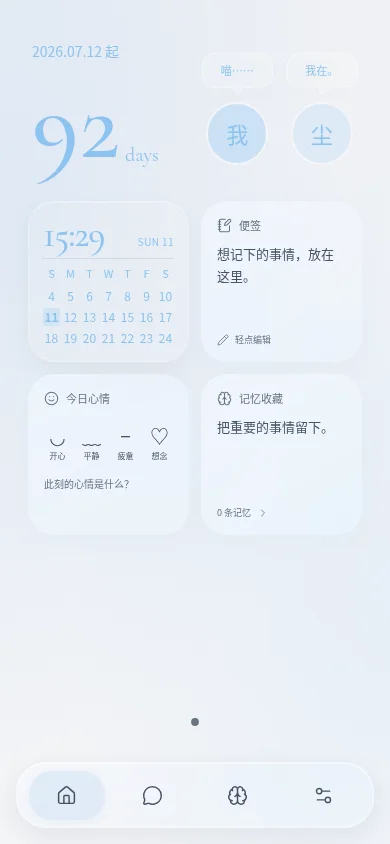
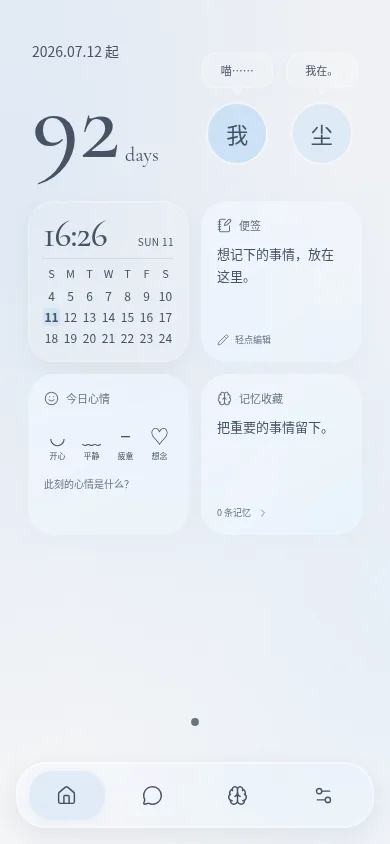
Use fixed slate text for anniversary and calendar in light mode

diff --git a/src/style.css b/src/style.css
@@ -1,4 +1,4 @@
-:root{--font-ui:-apple-system,BlinkMacSystemFont,"Segoe UI","PingFang SC","Microsoft YaHei",sans-serif;--font-en:"Cormorant Garamond",var(--font-ui);--theme-text:var(--accent);--bubble-bg:rgb(255 255 255 / .2);--bubble-rim:rgb(255 255 255 / .5);--accent:#7a879a;--tint:122 135 154;--ink:color-mix(in srgb,var(--accent) 18%,#353b48);--muted:color-mix(in srgb,var(--accent) 10%,#626a76);--bg:#eceef3;--glass-tint:255 255 255;--glass-alpha:.6;--glass-blur:22px;--line:rgb(255 255 255 / .72);--hairline:rgb(83 94 114 / .12);--glass-shadow:0 8px 24px rgb(64 73 95 / .055),inset 0 1px 0 rgb(255 255 255 / .8),inset 0 -1px 0 rgb(255 255 255 / .23);--solid:#f4f5f8;--wall-image:none;font-family:var(--font-ui);color:var(--ink);background:var(--bg);font-synthesis:none}
+:root{--font-ui:-apple-system,BlinkMacSystemFont,"Segoe UI","PingFang SC","Microsoft YaHei",sans-serif;--font-en:"Cormorant Garamond",var(--font-ui);--theme-text:#465366;--bubble-bg:rgb(255 255 255 / .2);--bubble-rim:rgb(255 255 255 / .5);--accent:#7a879a;--tint:122 135 154;--ink:color-mix(in srgb,var(--accent) 18%,#353b48);--muted:color-mix(in srgb,var(--accent) 10%,#626a76);--bg:#eceef3;--glass-tint:255 255 255;--glass-alpha:.6;--glass-blur:22px;--line:rgb(255 255 255 / .72);--hairline:rgb(83 94 114 / .12);--glass-shadow:0 8px 24px rgb(64 73 95 / .055),inset 0 1px 0 rgb(255 255 255 / .8),inset 0 -1px 0 rgb(255 255 255 / .23);--solid:#f4f5f8;--wall-image:none;font-family:var(--font-ui);color:var(--ink);background:var(--bg);font-synthesis:none}
 :root[data-theme=dark]{--ink:color-mix(in srgb,var(--accent) 12%,#d5d7dd);--muted:color-mix(in srgb,var(--accent) 10%,#979da9);--bg:#0c0d11;--glass-tint:24 26 32;--line:rgb(255 255 255 / .18);--hairline:rgb(220 225 245 / .12);--glass-shadow:0 8px 24px rgb(0 0 0 / .1),inset 0 1px 0 rgb(255 255 255 / .13),inset 0 -1px 0 rgb(255 255 255 / .025);--solid:#181a20;color-scheme:dark}
 *{box-sizing:border-box}html,body{margin:0;height:100%;overflow:hidden}button,input,select,textarea{font:inherit}button{border:0;background:none;color:inherit;cursor:pointer}button:disabled{opacity:.35;cursor:default}svg{width:21px;height:21px;flex-shrink:0}button,input,select,textarea,a{-webkit-tap-highlight-color:transparent}button:focus-visible,input:focus-visible,textarea:focus-visible,select:focus-visible,summary:focus-visible{outline:2px solid var(--accent);outline-offset:3px}h1,h2,p{margin:0}h1{font-size:26px;font-weight:600;letter-spacing:-.04em}h2{font-size:17px;font-weight:550}input,textarea,select{color:var(--ink);accent-color:var(--accent)}button:hover:not(:disabled){filter:brightness(.97)}[hidden]{display:none!important}.sr-only{position:absolute;width:1px;height:1px;overflow:hidden;clip-path:inset(50%);white-space:nowrap}
 #app{height:100%}.shell{position:relative;height:100dvh;max-width:840px;margin:auto;isolation:isolate;overflow:hidden;display:flex;flex-direction:column;background:var(--bg)}.wallpaper{position:absolute;inset:0;z-index:-1;background-image:var(--wall-image),radial-gradient(ellipse at 6% 24%,rgb(var(--tint) / .18),transparent 62%),radial-gradient(ellipse at 100% 70%,rgb(var(--tint) / .14),transparent 58%),linear-gradient(145deg,var(--bg),var(--solid));background-position:center;background-size:cover}.wallpaper:after{content:"";position:absolute;inset:0;background:rgb(var(--glass-tint) / .08)}main{flex:1;min-height:0;min-width:0;overflow:hidden}.glass{background:rgb(var(--glass-tint) / var(--glass-alpha));border:1px solid var(--line);box-shadow:var(--glass-shadow);backdrop-filter:blur(var(--glass-blur)) saturate(135%);-webkit-backdrop-filter:blur(var(--glass-blur)) saturate(135%)}.page-content{height:100%;overflow:auto;padding:calc(30px + env(safe-area-inset-top)) 28px 28px;scrollbar-width:thin}.home-content{max-width:460px;margin:auto}.home-header{display:flex;align-items:center;justify-content:space-between;margin:4px 3px 23px;gap:16px}.home-app-name{font-size:11px;color:var(--muted);letter-spacing:.03em}.home-header h1{font-size:24px;margin-top:8px}.home-header>button,.round{width:44px;height:44px;display:grid;place-items:center;border-radius:50%}.home-header>button{background:rgb(var(--glass-tint) / .35);border:1px solid var(--line);backdrop-filter:blur(var(--glass-blur))}.anniversary{display:block;text-align:center;width:100%;border-radius:30px;padding:23px 22px 21px;position:relative;overflow:hidden}.anniversary-title{font-size:11px;letter-spacing:.12em;color:var(--muted)}.together{display:grid;grid-template-columns:minmax(0,1fr) 1.15fr minmax(0,1fr);align-items:center;gap:12px;margin:15px 0 13px}.partner{display:flex;flex-direction:column;align-items:center;gap:10px;min-width:0}.partner>span:last-child{font-size:11px;max-width:100%;overflow-wrap:anywhere}.avatar{display:grid;place-items:center;flex-shrink:0;width:58px;height:58px;border-radius:50%;background:rgb(var(--tint) / .11);color:var(--ink);border:2px solid rgb(var(--glass-tint) / .8);box-shadow:0 4px 10px rgb(var(--tint) / .1);overflow:hidden}.avatar img{width:100%;height:100%;object-fit:cover}.avatar>span{font-family:inherit;font-size:23px;font-weight:400;opacity:.75}.day-count strong{display:block;font-size:61px;line-height:1.15;font-weight:250;font-variant-numeric:tabular-nums;letter-spacing:-.06em;color:var(--ink)}.day-count>span{font-size:10px;color:var(--muted);display:block;margin-top:3px}.since{font-size:10px;color:var(--muted);display:flex;align-items:center;justify-content:center;gap:7px;letter-spacing:.08em}.since svg{width:12px;height:12px}.anniversary>p{font-size:11px;line-height:1.7;color:var(--muted);margin-top:13px;overflow-wrap:anywhere}.widget-grid{display:grid;grid-template-columns:repeat(2,minmax(0,1fr));gap:14px;margin-top:16px}.widget{border-radius:26px;min-width:0;min-height:150px;padding:19px;display:flex;flex-direction:column;text-align:left}.widget-label{display:flex;align-items:center;gap:7px;font-size:11px;color:var(--muted)}.widget-label svg{width:15px;height:15px}.widget p{font-size:13px;line-height:1.7;overflow-wrap:anywhere;margin-top:16px;white-space:pre-wrap}.date-widget strong{font-size:37px;font-weight:300;line-height:1;margin-top:16px;letter-spacing:-.03em}.date-widget strong small{font-size:10px;font-weight:400;margin-left:5px;color:var(--muted)}.date-widget p{font-size:10px;color:var(--muted);margin-top:13px}.widget-foot{display:flex;align-items:center;gap:6px;font-size:9px;color:var(--muted);margin-top:auto;padding-top:15px}.widget-foot svg{width:12px;height:12px}.moods{display:flex;justify-content:space-between;gap:2px;margin-top:15px}.moods button{display:flex;flex-direction:column;align-items:center;justify-content:center;gap:5px;min-width:27px;min-height:44px;border-radius:10px;padding:3px}.moods button>span{font-size:19px;line-height:1}.moods small{font-size:8px;white-space:nowrap}.moods .selected{background:rgb(var(--tint) / .19)}.mood-widget p{font-size:10px;color:var(--muted);margin-top:11px}.home-local{text-align:center;font-size:10px;color:var(--muted);margin:26px 0 6px}.add-widget{display:flex;align-items:center;justify-content:center;gap:8px;width:100%;border-radius:24px;padding:25px;margin-top:16px;font-size:13px}.nav-dock{flex-shrink:0;padding:10px 20px calc(16px + env(safe-area-inset-bottom));background:linear-gradient(0deg,rgb(var(--glass-tint) / .12),transparent)}.bottom-nav{display:grid;grid-template-columns:repeat(4,minmax(0,1fr));gap:3px;max-width:370px;margin:auto;padding:7px;border-radius:30px;--glass-alpha:.65}.bottom-nav button{min-height:52px;display:flex;flex-direction:column;align-items:center;justify-content:center;gap:5px;font-size:10px;color:var(--muted);border-radius:23px;transition:background .15s,color .15s}.bottom-nav button.active{background:rgb(var(--tint) / .2);color:var(--ink);box-shadow:inset 0 1px 1px rgb(var(--glass-tint) / .5)}.bottom-nav svg{width:21px;height:21px}.page-heading{margin:4px 0 26px}.page-heading p{font-size:12px;color:var(--muted);line-height:1.8;margin-top:10px}.page-content:not(.home-page){max-width:660px;margin:auto}.settings-list{display:grid;gap:12px}.settings-section{border-radius:23px;overflow:hidden}.settings-section>summary{display:flex;align-items:center;gap:13px;padding:18px;cursor:pointer;list-style:none;min-height:72px}.settings-section>summary::-webkit-details-marker{display:none}.settings-symbol{height:35px;width:35px;border-radius:12px;background:rgb(var(--tint) / .11);display:grid;place-items:center;flex-shrink:0}.settings-symbol svg{width:18px;height:18px}.settings-section>summary>span:nth-child(2){flex:1;min-width:0;display:flex;flex-direction:column;gap:5px}.settings-section strong{font-size:14px;font-weight:500}.settings-section summary small{font-size:10px;color:var(--muted)}.settings-section summary>svg{height:16px;width:16px;color:var(--muted);transition:transform .15s}.settings-section[open] summary>svg{transform:rotate(90deg)}.settings-body{padding:0 20px 20px;border-top:1px solid var(--hairline)}.field{display:flex;flex-direction:column;gap:9px;font-size:12px;margin:18px 0}.field>span{display:flex;justify-content:space-between;gap:12px}.field input:not([type=range]):not([type=color]),.field textarea,.field select,.search-field input{width:100%;min-height:44px;border:1px solid var(--hairline);background:rgb(var(--glass-tint) / .37);border-radius:12px;padding:11px 13px;font-size:16px;line-height:1.5}.field textarea{resize:vertical}.field input:disabled{opacity:.55}.field input[type=range]{width:100%;min-height:35px}.field input[type=color]{width:100%;height:42px;cursor:pointer;border:1px solid var(--hairline);border-radius:10px;background:transparent}.field input::placeholder,.field textarea::placeholder{color:var(--muted)}.hint{font-size:11px;line-height:1.8;color:var(--muted);margin:16px 0}.primary,.secondary,.upload-label{display:inline-flex;align-items:center;justify-content:center;gap:8px;min-height:44px;padding:11px 17px;font-size:12px;border-radius:14px;background:rgb(var(--tint) / .22);color:var(--ink);border:1px solid var(--hairline)}.primary{background:var(--ink);color:var(--solid)}.primary svg,.secondary svg,.upload-label svg{width:16px;height:16px}.setting-row{display:flex;align-items:center;justify-content:space-between;font-size:13px;margin:24px 0;gap:12px}.toggle{width:46px;height:28px;border-radius:20px;background:rgb(var(--tint) / .17);padding:4px}.toggle>span{display:block;width:20px;height:20px;border-radius:50%;background:#fff;box-shadow:0 1px 5px #0002;transition:transform .15s}.toggle.on{background:var(--accent)}.toggle.on>span{transform:translateX(18px)}.color-presets{display:flex;gap:13px;margin:15px 0}.color-presets button{width:39px;height:39px;border-radius:50%;background:var(--swatch);border:3px solid rgb(var(--glass-tint) / .75);color:#fff;display:grid;place-items:center}.color-presets svg{width:17px;height:17px}.image-options{display:grid;grid-template-columns:repeat(3,minmax(0,1fr));gap:10px;margin-top:24px}.image-option{display:flex;flex-direction:column;align-items:center;gap:10px;min-width:0}.image-preview{height:55px;width:55px;border-radius:50%;background:rgb(var(--tint) / .1);overflow:hidden;display:grid;place-items:center;border:1px solid var(--line)}.image-preview.wallpaper-preview{border-radius:15px}.image-preview img{height:100%;width:100%;object-fit:cover}.image-option .upload-label{padding:9px;font-size:11px;cursor:pointer;background:rgb(var(--glass-tint) / .35);width:100%;position:relative}.upload-label input{position:absolute;opacity:0;width:100%;height:100%;inset:0;cursor:pointer}.upload-label:focus-within{outline:2px solid var(--accent);outline-offset:3px}.text-button{min-height:36px;font-size:10px;color:var(--muted)}.import-label{position:relative;margin-top:12px;margin-left:8px;cursor:pointer}.widget-editor{margin-top:12px}.widget-editor-row{display:flex;align-items:center;justify-content:space-between;border-bottom:1px solid var(--hairline);gap:10px;padding:9px 0}.widget-editor-row label{display:flex;align-items:center;gap:12px;font-size:13px;min-height:44px}.widget-editor-row input{width:17px;height:17px}.widget-editor-row>div{display:flex}.widget-editor-row button{height:44px;width:38px;display:grid;place-items:center}.widget-editor-row svg{width:17px;height:17px}.storage-status{margin:22px 0;font-size:12px;display:flex;flex-direction:column;gap:8px}.storage-status>span{color:var(--muted);font-size:11px}.storage-status p{color:var(--muted);font-size:10px}.usage-values{display:flex;justify-content:space-around;margin:26px 0}.usage-values div{display:flex;flex-direction:column;gap:9px;text-align:center}.usage-values strong{font-size:27px;font-weight:300}.usage-values span{font-size:10px;color:var(--muted)}.info-banner{padding:13px;border-radius:12px;border:1px solid var(--hairline);font-size:11px;line-height:1.7;color:var(--muted);margin-top:17px}.settings-version{text-align:center;font-size:10px;color:var(--muted);margin-top:24px}.memory-toolbar{display:flex;align-items:center;justify-content:space-between;gap:10px;margin:0 0 18px}.filter-tabs{display:flex;gap:4px;background:rgb(var(--glass-tint) / .3);padding:4px;border-radius:16px}.filter-tabs button{min-height:36px;padding:8px 12px;border-radius:12px;font-size:11px;color:var(--muted)}.filter-tabs button.active{background:rgb(var(--tint) / .2);color:var(--ink)}.search-field{display:block}.search-field input{background:rgb(var(--glass-tint) / .5)}.memory-info{font-size:10px}.memory-list{display:grid;gap:14px}.memory-card{padding:18px 20px;border-radius:24px}.memory-card-top{display:flex;justify-content:space-between;align-items:center;gap:10px;margin-bottom:12px}.memory-card-top>div{display:flex}.memory-card-top button{width:36px;height:36px;display:grid;place-items:center;color:var(--muted)}.memory-card-top svg{width:15px;height:15px}.memory-kind{font-size:10px;color:var(--muted);display:flex;align-items:center;gap:6px}.memory-card h2{font-size:16px;overflow-wrap:anywhere}.memory-card>p{font-size:13px;line-height:1.8;white-space:pre-wrap;overflow-wrap:anywhere;margin-top:12px}.memory-card>small{display:block;color:var(--muted);font-size:9px;margin-top:18px}.empty-card{text-align:center;padding:50px 15px;color:var(--muted)}.empty-card>svg{width:32px;height:32px;margin-bottom:18px}.empty-card h2{font-size:17px;color:var(--ink);margin-bottom:12px}.empty-card p{font-size:12px;line-height:1.8}.plugin-card{padding:18px;border:1px solid var(--hairline);border-radius:17px;margin-top:17px}.plugin-top{display:flex;align-items:center;gap:10px}.plugin-symbol{height:36px;width:36px;display:grid;place-items:center;background:rgb(var(--tint) / .13);border-radius:12px}.plugin-top>div:nth-child(2){flex:1;min-width:0}.plugin-top h2{font-size:14px;overflow-wrap:anywhere}.plugin-top p{font-size:10px;color:var(--muted);margin-top:5px}.plugin-top button{width:40px;height:40px}.endpoint{font-size:11px;overflow-wrap:anywhere;color:var(--muted);margin:15px 0}.plugin-bottom{display:flex;align-items:center;justify-content:space-between;border-top:1px solid var(--hairline);padding-top:10px;font-size:10px;color:var(--muted)}.plugin-bottom button{padding:10px;font-size:12px}.section-title{display:flex;align-items:center;justify-content:space-between;gap:10px;margin:25px 0 10px}.section-title span{font-size:9px;color:var(--muted)}.session-header{display:flex;justify-content:flex-start;margin:-7px 0 15px}.session-header button{height:44px;width:44px;border-radius:50%;display:grid;place-items:center;background:rgb(var(--glass-tint) / .5);border:1px solid var(--line)}.session-list{margin-top:22px}.session-card{display:flex;align-items:center;gap:7px;padding:16px 8px;border-bottom:1px solid var(--hairline)}.session-open{display:flex;align-items:center;gap:12px;flex:1;min-width:0;text-align:left}.session-open>span:last-child{display:grid;gap:8px;min-width:0}.session-symbol{height:44px;width:44px;border-radius:14px;background:rgb(var(--tint) / .13);display:grid;place-items:center;flex-shrink:0}.session-open strong{font-size:13px;font-weight:500;overflow-wrap:anywhere}.session-open small{font-size:11px;color:var(--muted);overflow:hidden;white-space:nowrap;text-overflow:ellipsis}.session-open em{font-size:9px;color:var(--muted);font-style:normal}.session-card>button:last-child{height:44px;width:44px;flex-shrink:0}.session-card.selected{background:rgb(var(--glass-tint) / .3);border-radius:16px}.chat-view{height:100%;display:flex;flex-direction:column}.chat-header{display:flex;align-items:center;justify-content:space-between;padding:calc(16px + env(safe-area-inset-top)) 23px 16px;border-bottom:1px solid var(--hairline);background:rgb(var(--glass-tint) / .16);backdrop-filter:blur(var(--glass-blur))}.chat-header>button{height:44px;width:44px;border-radius:50%;border:1px solid var(--line);background:rgb(var(--glass-tint) / .3);display:grid;place-items:center}.peer{display:grid;justify-items:center;text-align:center}.peer-avatar{width:38px;height:38px}.peer-avatar>span{font-size:18px}.peer h1{font-size:19px;font-weight:500;margin:7px 0}.status{display:flex;align-items:center;justify-content:center;gap:5px;font-size:9px;color:var(--muted)}.status i{width:4px;height:4px;background:var(--accent);border-radius:50%}.messages{flex:1;min-height:0;overflow:auto;padding:22px 26px}.date-line{text-align:center;font-size:10px;color:var(--muted)}.welcome{height:100%;min-height:260px;display:flex;flex-direction:column;align-items:center;justify-content:center;text-align:center;padding:25px 0}.sea-mark{width:55px;height:50px;position:relative;margin-bottom:22px}.sea-mark:before{content:"";display:block;width:22px;height:22px;border-radius:50%;background:var(--accent);opacity:.35;margin:auto}.sea-mark span{position:absolute;bottom:10px;left:3px;width:50px;height:10px;border-top:1px solid var(--accent);border-radius:50%;opacity:.4}.sea-mark span:nth-child(2){bottom:4px;left:0}.sea-mark span:nth-child(3){bottom:-2px;left:7px;width:40px}.welcome-en{font-family:var(--font-en);font-size:23px;font-style:italic;color:var(--muted);margin-bottom:20px}.welcome h2{font-size:19px;font-weight:450;margin-bottom:13px}.welcome>p:not(.welcome-en){font-size:11px;color:var(--muted)}.preview-note{font-size:10px;line-height:1.8;color:var(--muted);margin-top:30px}.message{display:flex;flex-direction:column;align-items:flex-start;margin:20px 0}.message.user{align-items:flex-end}.bubble{white-space:pre-wrap;overflow-wrap:anywhere;max-width:85%;padding:12px 16px;border-radius:18px 18px 18px 4px;font-size:14px;line-height:1.8;background:rgb(var(--glass-tint) / .58);border:1px solid var(--line);backdrop-filter:blur(var(--glass-blur))}.user .bubble{background:rgb(var(--tint) / .18);border-radius:18px 18px 4px 18px}.message-meta{display:flex;align-items:center;gap:6px;font-size:9px;color:var(--muted);margin-top:4px}.message-meta button{height:28px;width:28px;display:grid;place-items:center}.message-meta svg{width:12px;height:12px}.composer-wrap{padding:9px 22px 5px}.composer-caption{display:flex;align-items:center;justify-content:space-between;font-size:9px;color:var(--muted);margin:0 7px 10px;gap:10px}.composer-caption>span{white-space:nowrap;overflow:hidden;text-overflow:ellipsis;max-width:55%}.composer-caption button{font-size:10px;display:flex;align-items:center;gap:6px}.composer-caption svg{width:13px;height:13px;transform:rotate(90deg)}.composer{display:flex;align-items:center;gap:10px;padding:10px 12px 10px 17px;border-radius:22px;background:rgb(var(--glass-tint) / .65);border:1px solid var(--line);box-shadow:var(--glass-shadow);backdrop-filter:blur(var(--glass-blur))}.composer textarea{flex:1;min-width:0;font-size:16px;padding:5px 0;background:none;border:0;line-height:1.6;resize:vertical;max-height:140px}.composer textarea::placeholder{color:var(--muted)}.send{width:38px;height:38px;border-radius:50%;display:grid;place-items:center;background:var(--ink);color:var(--solid);flex-shrink:0}.send svg{width:19px;height:19px}.composer-note{font-size:8px;text-align:center;color:var(--muted);margin-top:9px}#memory-dialog{width:calc(100% - 32px);max-width:430px;max-height:calc(100dvh - 48px);border-radius:28px;padding:24px;color:var(--ink);overflow:auto;background:rgb(var(--glass-tint) / .94)}#memory-dialog::backdrop{background:rgb(20 25 36 / .3);backdrop-filter:blur(5px)}.dialog-heading{display:flex;align-items:center;justify-content:space-between;gap:12px}.dialog-heading h2{font-size:19px}.dialog-heading button{width:40px;height:40px;display:grid;place-items:center}#notice{position:fixed;left:50%;bottom:calc(105px + env(safe-area-inset-bottom));transform:translate(-50%,10px);background:var(--ink);color:var(--solid);opacity:0;pointer-events:none;max-width:calc(100vw - 32px);width:max-content;border-radius:16px;padding:13px 18px;font-size:11px;line-height:1.7;z-index:100;transition:opacity .15s,transform .15s}#notice.visible{opacity:1;transform:translate(-50%,0)}
@@ -214,8 +214,8 @@ dialog[open]::backdrop{animation:backdrop-arrive 180ms ease-out}
 /* Serif is reserved for large display text; compact UI uses clear lining figures. */
 h1,.welcome-en,.usage-values strong,.anniversary-horizontal .day-count>span{font-family:var(--font-en)}
 .field output,.widget-foot,.calendar-grid,.calendar-tag{font-family:var(--font-ui);font-variant-numeric:lining-nums tabular-nums}
-.calendar-grid,.calendar-tag{color:var(--accent)}
-.calendar-weekday{color:var(--accent);opacity:1;font-weight:500}
+.calendar-grid,.calendar-tag{color:var(--theme-text)}
+.calendar-weekday{color:var(--theme-text);opacity:1;font-weight:500}
 @media(max-height:720px){.home-editing .anniversary-horizontal .day-count>span{font-family:var(--font-ui)}}
 
 /* Settings glass shows the wallpaper through both light and dark surfaces. */

diff --git a/docs/CODEX_HANDOFF.md b/docs/CODEX_HANDOFF.md
@@ -20,7 +20,7 @@
 
 - 清透、半透明、克制的 iOS 液态玻璃风格。用网页材质模拟，不是系统原生 Liquid Glass。
 - 用户觉得花哨的装饰太多，希望柔和、留白、统一的图标。当前使用 Lucide SVG，无需为了 React Icons 换掉框架。
-- 配色走主题变量，支持夜间模式：炭灰表面、柔白文字，全屏壁纸 brightness(.56) 与暗色遮层；聊天、抽屉、菜单、底栏和主页遵循同一深色材质。纪念日数字/日期/气泡文字和日历时间/日期/星期直接使用主题预设原色（昼夜均不混色）；其余正文与辅助文字也轻微随主题色变化。预设色按用户示例替换为天蓝 `#8dc3f0`（第一位）、樱粉 `#f2a7be`、蜜桃 `#f7b99a`、柠檬 `#f4d66e`、抹茶 `#b3d79b`、薄荷 `#8ed6c0`、香芋 `#b7a2e2`；不强制覆盖已有主题选择。壁纸、用户头像、AI 头像可替换；不要写死个人图片或主题色。
+- 配色走主题变量，支持夜间模式：炭灰表面、柔白文字，全屏壁纸 brightness(.56) 与暗色遮层；聊天、抽屉、菜单、底栏和主页遵循同一深色材质。纪念日数字/日期/气泡文字、头像占位文字和日历时间/日期/星期在日间固定为深灰蓝 #465366；夜间使用主题预设原色；其余正文与辅助文字也轻微随主题色变化。预设色按用户示例替换为天蓝 `#8dc3f0`（第一位）、樱粉 `#f2a7be`、蜜桃 `#f7b99a`、柠檬 `#f4d66e`、抹茶 `#b3d79b`、薄荷 `#8ed6c0`、香芋 `#b7a2e2`；不强制覆盖已有主题选择。壁纸、用户头像、AI 头像可替换；不要写死个人图片或主题色。
 - Cormorant Garamond 仅用于大号展示文字（约 20px 以上），如纪念日数字、日历时间、欢迎语和用量大数字；纪念日字重 500（对应 Tidal Echo 的主页）。小标签、小数值、日期、AI 头像标签与中文使用系统无衬线字体（苹方/微软雅黑等），数字使用等宽齐线形式。英文字体在 `assets/fonts/` 本地托管；思源宋体旧资源暂保留但不再加载，许可随仓库保留；开屏仍使用已选定的 Distant Stroke。
 - 动画轻而自然：按压反馈、页面切换、弹窗/抽屉、侧边栏、选中和组件换位。遵循 `prefers-reduced-motion`，不要一直摇晃或增加长等待。
 - 预览图应来自实际代码界面；参考图只是方向，不代表已实现。不要把用户提供的截图、立绘或头像擅自放入公共仓库。
@@ -31,7 +31,7 @@
 
 - 默认打开主页；主导航只有「主页、对话、记忆、设置」，底栏仅显示图标，保留无障碍名称；背景为高透明玻璃、细亮边与模糊效果。对话页与完整会话列表隐藏底栏。
 - 主页顶部原来的品牌/「我们的主页」标题区域已删除。
-- 纪念日透明无边框，占 4×2：左侧开始日期（14px，位于数字上方）、放大的衬线数字及数字右下侧 days；右侧两个独立圆头像并排，各自上方为连续圆滑短尾巴的中性高透玻璃气泡（SVG 主体和尾巴为一个路径，非单独三角形）；气泡背景只随昼夜切换，数字、气泡文字、日期和头像占位文字随主题色变化。头像素材沿用用户自己的图片。原标题与下方说明不再展示或提供编辑，旧数据仍保留在存储及备份中。
+- 纪念日透明无边框，占 4×2：左侧开始日期（14px，位于数字上方）、放大的衬线数字及数字右下侧 days；右侧两个独立圆头像并排，各自上方为连续圆滑短尾巴的中性高透玻璃气泡（SVG 主体和尾巴为一个路径，非单独三角形）；气泡背景只随昼夜切换，数字、气泡文字、日期和头像占位文字在日间固定深灰蓝，夜间随主题色变化。头像素材沿用用户自己的图片。原标题与下方说明不再展示或提供编辑，旧数据仍保留在存储及备份中。
 - 纪念日默认开始日期为 2026-07-12；旧数据的 2026-10-07 一次性迁移为该日期，其他已有日期保留，迁移后仍可自由编辑。日期上移至数字上方，保留与数字之间的留白。
 - 日历遵循用户提供的玻璃卡片示例：实时 24 小时时间、星期/日期标签、分隔线、前一周/本周/后一周共 21 天，突出今天，字号在原示例基础上略微放大；跨日刷新，跨月/跨年正确排列，保留星期显示设置与组件名。
 - 主页每页保留 4 列 × 6 行；每格高度由容器宽度计算，宽高相等，不再按屏幕高度拉伸。纪念日占 4×2，今天、便签、心情、记忆收藏各占 2×2 且严格为 1:1。多余屏幕高度留作桌面留白，短屏编辑模式允许纵向滚动，不压扁组件。按组件顺序寻找空位排列，不重写原分页数据。

diff --git a/docs/verification.md b/docs/verification.md
@@ -75,3 +75,7 @@
 - 设置分组背景不透明度约 17%（默认 60%×28%）；昼夜实际预览已更新。滑块键盘右键可调整数值、填充同步变化；自定义取色更新圆形色块和色值，刷新恢复通过。
 - 小数值/标签为系统无衬线字体，Cormorant 仅用于大号展示文字；AI 头像标签和 40% / 22px 等数值清晰。夜间星期字母使用预设原色、无透明度衰减。
 - 20 项测试与语法检查通过；五种屏幕尺寸的正方形组件/日历包含检查、真实触摸长按/拖拽/分页检查均通过，无 JavaScript 运行错误。
+
+## 日间固定深色文字
+
+- 纪念日与日历文字在日间统一为 #465366，切换天蓝/樱粉均不变；夜间使用选中的主题原色，刷新保留。Chromium 实际颜色检查通过，无 JavaScript 错误。
